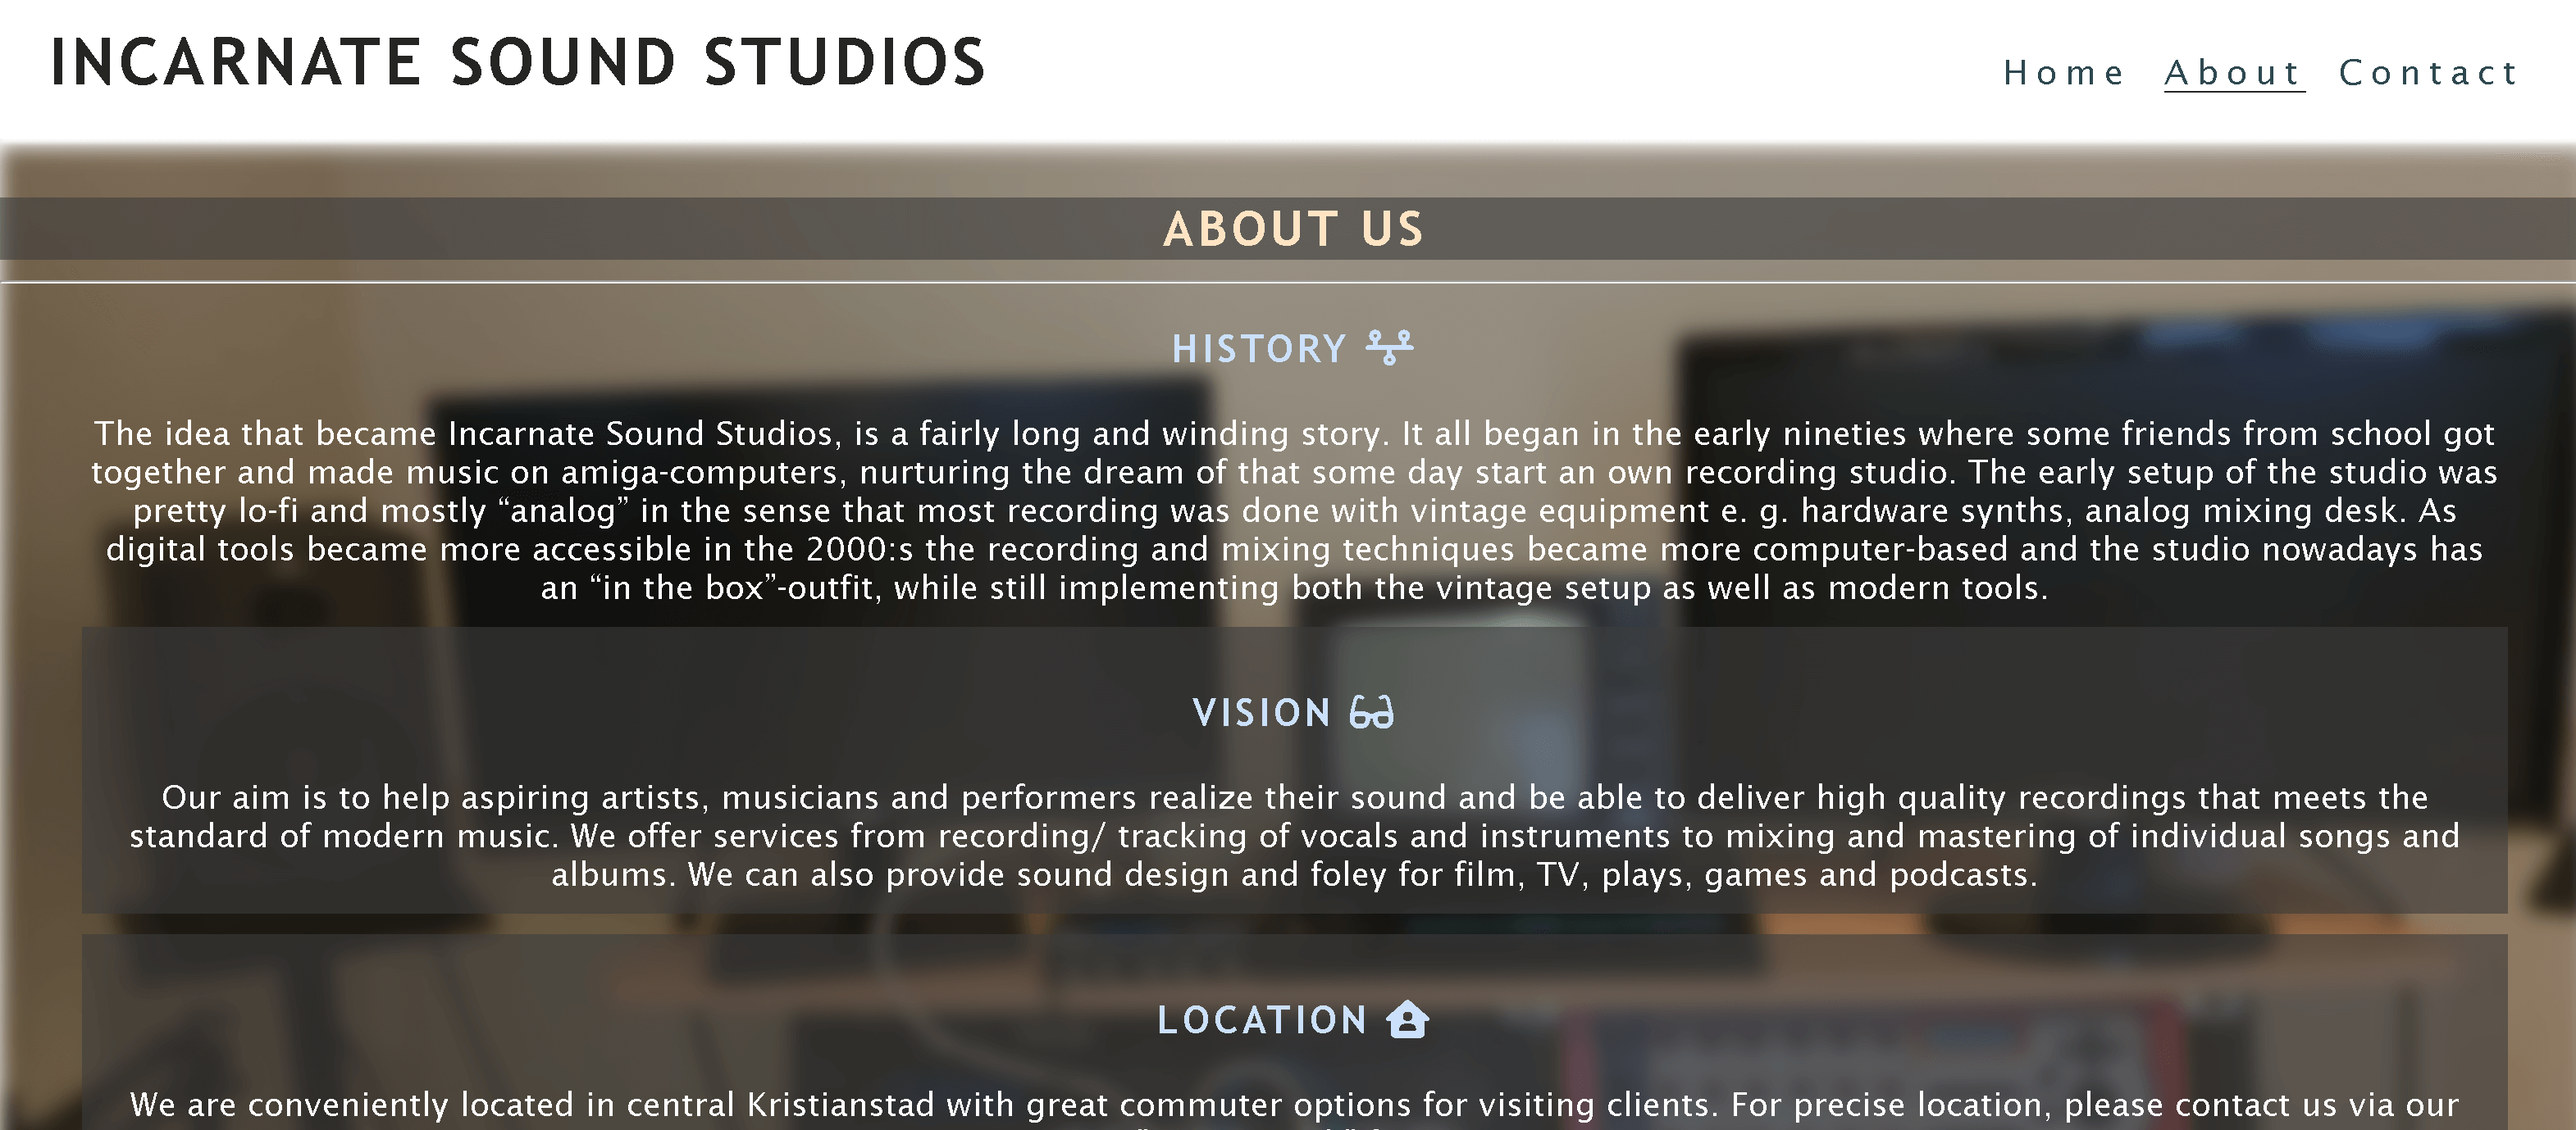
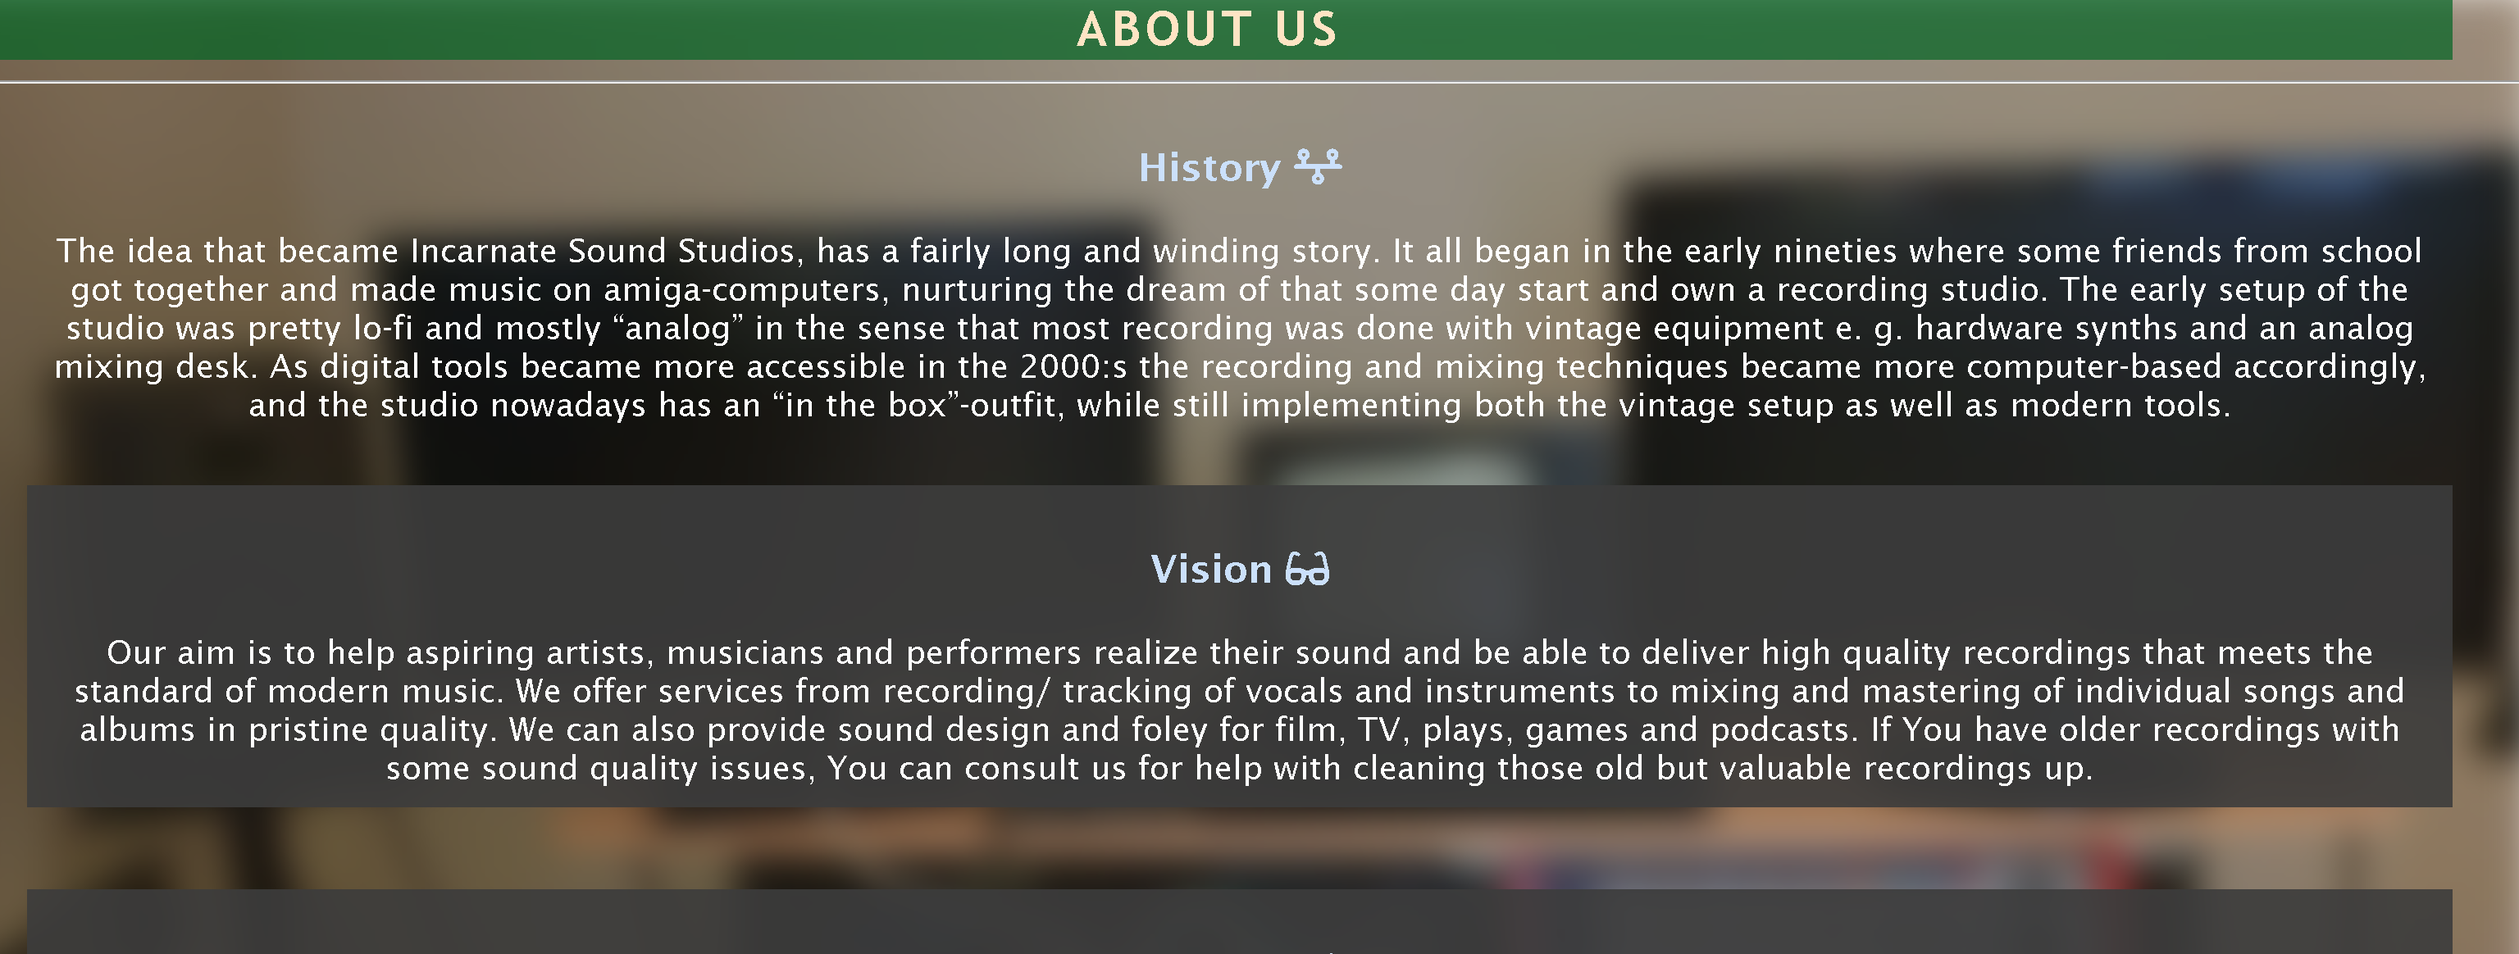
Add adjustments to readme, add links

diff --git a/assets/css/style.css b/assets/css/style.css
@@ -207,7 +207,7 @@ main {
 /* About section  */
 
 h2 {
-    margin: 4px 40px 10px 10px;
+    margin: 4px 40px 10px 40px;
 
 }
 

diff --git a/README.md b/README.md
@@ -15,16 +15,16 @@
 * Easy navigation and full responiveness with all devices.
 
 ## User Stories
-* First time user
+### First time user
 - A first time user should get all necessary info to make a decision if the sevices available on the site are sufficient and reliable and that he or she can get in touch, either to require further info or book a session. 
 - A first time user will feel confident with the navigation on the page and can easily acquire the material provided. 
 - A first time user will also be able to receive tips and tricks for their own projects, without utilizing the studio.
 - A first time user will be able to follow the links in the footer to hear sound clips, watch videos and find useful information related to music recording and production.
-* Returning user
+### Returning user
 - As a returning user You can receive valuable resources, both for Your own musical projects, as well as for Your instruments. 
 - A returning user can receive sound libraries from the studio, as well as music and sound production techniques via e-mail. 
 - As a returning user You can also follow the links in the footer to look for updates, listen to new music and find useful tips to boost Your own creativity.
-* Frequent user
+### Frequent user
 - A frequent user will be confident in finding all resources and navigating the page, as well as being aware of any updates or changes. 
 - As a frequent user, You can engage in dialogue with the studio, sharing Your own successes and experiences. 
 - A frequent user can sign up for a weekly newsletter with exclusive tips and tricks in recording music and sounds, as well as recommendations to other sources of information.
@@ -35,11 +35,11 @@
 
 ### Choice of colours
 
-- A careful palette of colours have been used to provide maximum accessibility, while maintaining the professional feel of the website. The user can enjoy an experience which is smooth on the eye and also clearly displays the message of the site. On the landing page, both green and red are used as background colours for the sections with text. The green resembles the soothing feeling You get when accomplishing Your goal, as well as indicating the project has been "greenlit". The red is a good complement to the green, and indicate both importance and a bit of urgency. It also suits the background well, given a slight transparant character.
+- A careful palette of colours have been used to provide maximum accessibility, while maintaining the professional feel of the website. The user can enjoy an experience which is smooth on the eye and also clearly displays the message of the site. On the landing page, both green and red are used as background colours for the sections with text. The green resembles the soothing feeling You get when accomplishing Your goal, as well as indicating the project has been "greenlit". The red is a good complement to the green, and indicate both importance and a bit of urgency. It also suits the background well, given a slightly transparant character.
 
 ### Choice of fonts
 
-- The site utilizes some well known sans-serif fontss. The choice of these fonts was based on the goal to provide maximum readability and a professional feel. More ecclectic fonts may sometimes confuse a user or provide a less serious feel. Fonts such as 'Lucida Sans', 'Lucida Sans Regular', 'Lucida Grande', 'Lucida Sans Unicode', Geneva and Verdana, sans-serif, are fonts which are very easily accessible and translates well on most devices and screens. 
+- The site utilizes some well known sans-serif fonts. The choice of these fonts was based on the goal to provide maximum readability and a professional feel - more ecclectic fonts may sometimes confuse a user or provide a less serious feel. Fonts such as 'Lucida Sans', 'Lucida Sans Regular', 'Lucida Grande', 'Lucida Sans Unicode', Geneva and Verdana, sans-serif, are fonts which are very easily accessible and translates well on most devices and screens. 
 
 ## Wireframes
 
@@ -49,35 +49,35 @@
 ![About](https://github.com/Dym077/Incarnatesound/assets/147504788/782ba312-19cf-4290-b359-ab8f0065fea5)
 ![Contact](https://github.com/Dym077/Incarnatesound/assets/147504788/45ca6b83-3825-4891-afe6-e088efb50bec)
 
-The wireframes from paper:
+- The wireframes from paper:
 ![Alt text](assets/images/home_pen.jpg)
 ![Alt text](assets/images/about_pen.jpg)
 ![Alt text](assets/images/contact_pen.jpg)
 ## Features
 
-* Navigation
+### Navigation
 
-* Landing page
+#### Landing page
 - The landing page displays a panorama of the studio in a dim light, which provides an inspiring and welcoming feeling to the user. 
 
 ![Landing Page Image](assets/images/landingpage.png)
-* About section
+#### About section
 - The About section is separated in two different sections:
 - About Us, which gives a brief history of how the company was founded, as well as the location of the studio and the company's vision.
 - The studio and the tools which are available to the client. 
 
 ![About Page Image](assets/images/aboutpage.png)
-* Gallery section
+#### Gallery section
 - The gallery section displays the studio layout and the instruments and tools available.
 - The gallery is displayed in columns which will respond to the screen size of the device used. 
 
 ![Gallery Page Image](assets/images/gallery_page.png)
 
-* Contact form section
+#### Contact form section
 - This section provdes an easy-to-fill-in form for the user to get in touch with the company. The user can choose either to receive information about the studio or to reach out to book a session or both. 
 ![Contact Form Section](assets/images/contactpage.png)
 
-* Footer
+#### Footer
 - The footer houses the social media links where the user can interact with the studio. The links available are for Facebook, Bandcamp, Youtube and Soundcloud and are opened in new tabs.
 ![Footer Image](assets/images/footer.png)
 ### Features left to implement
@@ -85,9 +85,9 @@ The wireframes from paper:
 
 ## Testing
 ### Validator testing
-* HTML
+#### HTML
 - No errors were returned when running the code through the W3C Markup Validator.
-* CSS
+#### CSS
 - No errors were returned when running the code through the W3C CSS Validator. 
 - Accessibility
 The site achieved a Lighthouse accessibility score of 100% which assures that the choice of colours and fonts are easy to read and access. 
@@ -115,7 +115,7 @@ The following apps were also utilized to check the website on different screen-s
 #### 
 * Fixed a problem where the margin of the header didn't adjust due to duplicats of the h2 element where values were overridden. 
 ### Known bugs
-* The text "Get in touch" seems to be invisible on the "submit"-button with some iPhone models, as iPhone 11 Pro.
+* The text "Get in touch" seems to be invisible on the "submit"-button with some iPhone models, such as iPhone 11 Pro.
  # Techologies used
  
  ## Languages
@@ -130,7 +130,9 @@ The following apps were also utilized to check the website on different screen-s
 - [GitHub](https://github.com/) - For hosting and version control.
 - [Google Fonts](https://fonts.google.com/) - Used to import additional fonts to the project.
 - [TinyPNG](https://tinypng.com/) - To compress image files to reduce file size without losing quality.
+- [IloveIMG](https://www.iloveimg.com/) - Used to resize, convert and compress image files.
 - [W3C](https://www.w3.org/) - Used for HTML & CSS Validation.
+- [Convertio](https://convertio.co/jpg-webp/) - Used for conversion of images to webp format.
 
 # Deployment
 This project was deployed using GitHub. To access the website through GitHub, follow these steps:
